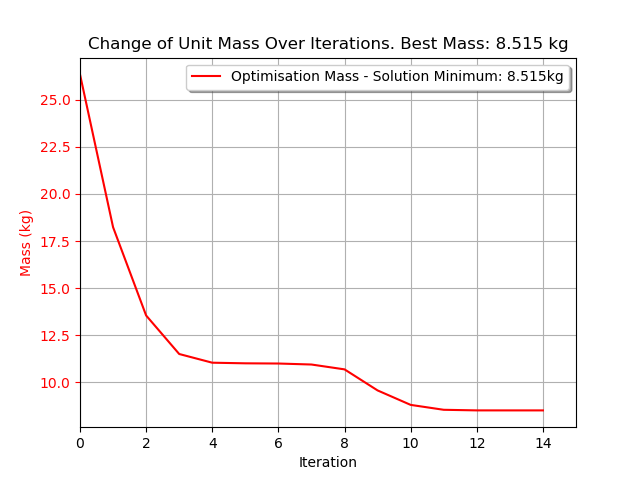
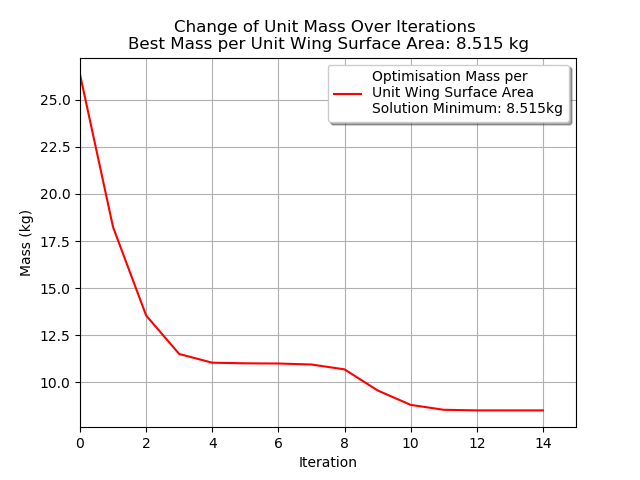
Improve Graph text and styling.

diff --git a/panel2.py b/panel2.py
@@ -183,26 +183,26 @@ plt.plot(bstRecordAdjust, 'b-', label='bst cm - Solution: ' + str(format(bstReco
 plt.plot(tstRecord, 'g--', label='tst mm - Solution: ' + str(format(tstRecord[-1], '.2f')) + 'mm')
 plt.plot(tskRecord, 'c-.', label='tsk mm - Solution: ' + str(format(tskRecord[-1], '.2f')) + 'mm')
 plt.xlabel('Iteration')
-plt.ylabel('Value Attempt', color='b')
+plt.ylabel('Value Attempt', color='k')
 plt.yticks(major_ticks1)
-plt.tick_params('y', colors='b')
+plt.tick_params('y', colors='k')
 plt.xlim([0, len(bstRecordAdjust)])
 plt.legend(loc='upper right', shadow=True)
 plt.grid(True)
-plt.title("Change of dimensions Over Iterations - Best Mass: " + str(format(mass(res['x']), '.3f')) + " kg")
+plt.title("Change of dimensions Over Iterations \nBest Mass per Unit Wing Surface Area: " + str(format(mass(res['x']), '.3f')) + " kg")
 plt.savefig('dimensions.png')
 
 
 plt.figure(2)
-plt.plot(massRecord, 'r-', label='Optimisation Mass - Solution Minimum: ' + str(format(mass(res['x']), '.3f')) + 'kg')
+plt.plot(massRecord, 'r-', label='Optimisation Mass per\nUnit Wing Surface Area \nSolution Minimum: ' + str(format(mass(res['x']), '.3f')) + 'kg')
 plt.xlabel('Iteration')
-plt.ylabel('Mass (kg)', color='r')
+plt.ylabel('Mass (kg)', color='k')
 # plt.yticks(major_ticks1)
-plt.tick_params('y', colors='r')
+plt.tick_params('y', colors='k')
 plt.xlim([0, len(massRecord)])
 plt.legend(loc='upper right', shadow=True)
 plt.grid(True)
-plt.title("Change of Unit Mass Over Iterations. Best Mass: " + str(format(mass(res['x']), '.3f')) + " kg")
+plt.title("Change of Unit Mass Over Iterations \nBest Mass per Unit Wing Surface Area: " + str(format(mass(res['x']), '.3f')) + " kg")
 plt.savefig('mass.png')
 
 plt.figure(3)
@@ -212,11 +212,11 @@ plt.plot(rsfMatRecord, 'c-.', label='Material Failure - Solution Value: ' + str(
 plt.plot(rsfEulerRecord, 'k:', label='Euler Buckling - Solution Value: ' + str(format(rsfEulerRecord[-1], '.2f')))
 plt.xlabel('Iteration')
 plt.xlim([0, len(rsfStiffRecord)])
-plt.ylabel('Reserve Factor', color='b')
-plt.tick_params('y', colors='b')
+plt.ylabel('Reserve Factor', color='k')
+plt.tick_params('y', colors='k')
 plt.legend(loc='upper right', shadow=True)
 plt.grid(True)
-plt.title("Reserve Factors Over Iterations - Best Mass: " + str(format(mass(res['x']), '.3f')) + " kg")
+plt.title("Reserve Factors Over Iterations \nBest Mass per Unit Wing Surface Area: " + str(format(mass(res['x']), '.3f')) + " kg")
 plt.savefig('rsf.png')
 
 # Create matplotlib windows with GUI
